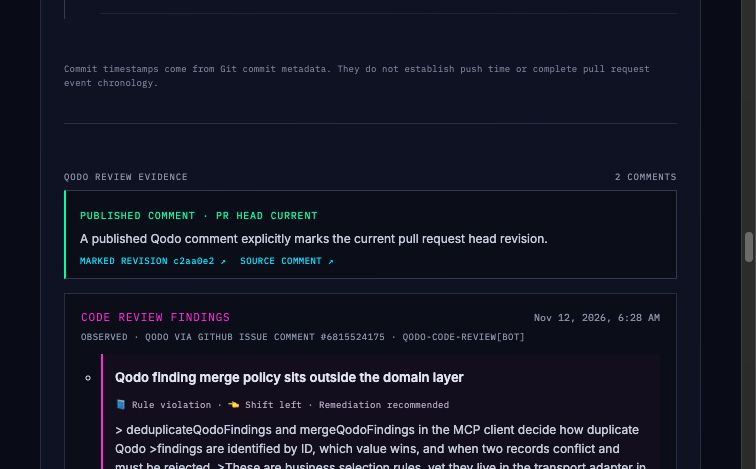
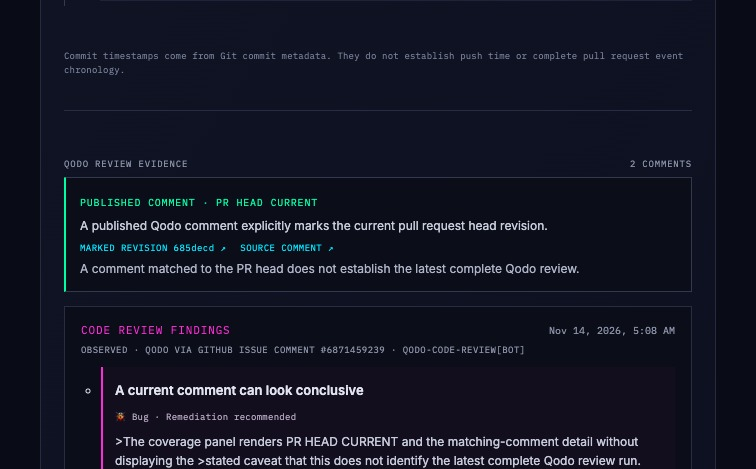
fix: qualify Qodo head coverage evidence

diff --git a/frontend/src/presentation/style.css b/frontend/src/presentation/style.css
@@ -8,7 +8,7 @@
 main:focus{outline:none}
 
 .review-provenance{margin:7px 0 12px;color:#8a91a7;font:9px 'IBM Plex Mono';letter-spacing:.05em;text-transform:uppercase}.finding-list{display:grid;gap:12px}.finding-list>li{padding:12px;border-left:2px solid #ff2bd6;background:#ff2bd607}.finding-heading{display:flex;justify-content:space-between;gap:12px;align-items:flex-start}.finding-heading strong{font-size:13px;font-weight:600}.finding-heading span{flex:none;color:#ffc857;font:10px 'IBM Plex Mono';text-transform:uppercase}.finding-labels{margin:8px 0;color:#b3a5be;font:9px 'IBM Plex Mono';letter-spacing:.03em}.finding-description{margin:8px 0 10px;color:#c6cbdb;font-size:12px;line-height:1.6}.review-followups{margin:16px 0 12px;padding:12px;border:1px dashed #3a3f5a;background:#ffffff03}.review-followups h4{margin:0 0 8px;color:#ffc857;font:9px 'IBM Plex Mono';letter-spacing:.07em}.review-followups ul{list-style:none;margin:0;padding:0;display:grid;gap:6px}.review-followups li{display:flex;align-items:center;justify-content:space-between;gap:10px;color:#bfc5d6;font-size:11px}.review-followups li a{color:var(--cyan);font:10px 'IBM Plex Mono';text-decoration:none}.review-followups li button{padding:6px 8px;background:transparent;color:var(--cyan);border:1px solid #00e5ff55;clip-path:none;font:9px 'IBM Plex Mono';letter-spacing:.05em}.review-followups>p{margin:10px 0 0;color:#8a91a7;font:9px/1.5 'IBM Plex Mono'}
-.review-coverage{margin:0 0 14px;padding:12px 14px;border:1px solid #33384f;border-left:2px solid #8a91a7;background:#0b0d19}.review-coverage>strong{font:10px 'IBM Plex Mono';letter-spacing:.08em;color:#d1d5e3}.review-coverage>p{margin:7px 0 0;color:#c6cbdb;font-size:12px;line-height:1.55}.review-coverage.current{border-left-color:#00ffa3}.review-coverage.current>strong{color:#00ffa3}.review-coverage.stale,.review-coverage.unknown{border-left-color:#fcee0a}.review-coverage.stale>strong,.review-coverage.unknown>strong{color:#fcee0a}.review-coverage.missing{border-left-color:#ff2bd6}.review-coverage.missing>strong{color:#ff7be3}.review-coverage.unavailable{border-left-color:#8a91a7}.review-coverage-sources{display:flex;flex-wrap:wrap;gap:14px}.review-coverage-sources a{color:var(--cyan);font:9px 'IBM Plex Mono';letter-spacing:.05em;text-decoration:none}.review-coverage-sources a:hover{text-decoration:underline}.review-coverage .review-coverage-next{color:#f4df73}
+.review-coverage{margin:0 0 14px;padding:12px 14px;border:1px solid #33384f;border-left:2px solid #8a91a7;background:#0b0d19}.review-coverage>strong{font:10px 'IBM Plex Mono';letter-spacing:.08em;color:#d1d5e3}.review-coverage>p{margin:7px 0 0;color:#c6cbdb;font-size:12px;line-height:1.55}.review-coverage.current{border-left-color:#00ffa3}.review-coverage.current>strong{color:#00ffa3}.review-coverage.stale,.review-coverage.unknown{border-left-color:#fcee0a}.review-coverage.stale>strong,.review-coverage.unknown>strong{color:#fcee0a}.review-coverage.outside_history{border-left-color:#8a91a7}.review-coverage.outside_history>strong,.review-coverage .review-coverage-caveat{color:#aeb4c7}.review-coverage.missing{border-left-color:#ff2bd6}.review-coverage.missing>strong{color:#ff7be3}.review-coverage.unavailable{border-left-color:#8a91a7}.review-coverage-sources{display:flex;flex-wrap:wrap;gap:14px}.review-coverage-sources a{color:var(--cyan);font:9px 'IBM Plex Mono';letter-spacing:.05em;text-decoration:none}.review-coverage-sources a:hover{text-decoration:underline}.review-coverage .review-coverage-next{color:#f4df73}
 
 .trace-open,.trace-copy,.trace-close{clip-path:none;font:10px 'IBM Plex Mono';letter-spacing:.06em;padding:8px 10px}.trace-open,.trace-close{margin-top:12px;background:transparent;color:var(--cyan);border:1px solid #00e5ff55}.trace-open:hover,.trace-close:hover{background:#00e5ff12}.trace-close{margin:0;flex:none}.deep-trace{margin-top:18px;padding:18px;border:1px solid #59405f;background:linear-gradient(130deg,#171222,#0d1020)}.trace-heading{display:flex;justify-content:space-between;align-items:flex-start;gap:16px}.trace-heading .eyebrow{font-size:10px;margin-bottom:7px}.trace-heading h4{margin:0;font:600 20px 'Barlow Condensed',sans-serif}.intervention-summary{margin-top:16px;padding:14px;border-left:2px solid var(--cyan);background:#00e5ff08}.intervention-summary h5,.trace-events-title{margin:0 0 9px;color:var(--cyan);font:10px 'IBM Plex Mono';letter-spacing:.08em}.intervention-summary p{margin:7px 0;color:#c6cbdb;font-size:12px;line-height:1.6}.intervention-summary p strong{color:#f3f4fa}.trace-actions{display:flex;flex-wrap:wrap;align-items:center;gap:10px;margin-top:12px}.trace-copy{background:var(--cyan);color:#071018}.trace-actions span{color:#aeb4c9;font-size:11px}.trace-events-title{margin:20px 0 9px}.trace-events{display:grid;gap:9px;margin:0;padding:0;list-style:none}.trace-events>li{padding:13px;border:1px solid #292d44;background:#0a0d19}.trace-event-meta{display:flex;flex-wrap:wrap;justify-content:space-between;gap:10px;color:#aeb4c9;font:10px 'IBM Plex Mono';letter-spacing:.04em}.trace-event-meta time{color:var(--muted)}.trace-events .finding-labels{line-height:1.6}.trace-events .finding-description{margin:8px 0;color:#c6cbdb}.trace-links{display:flex;align-items:center;flex-wrap:wrap;gap:12px;margin-top:10px}.trace-links .focus-revision{margin:0}.trace-events a{overflow-wrap:anywhere}.trace-boundary{margin:10px 0 0;color:#aeb4c9;font-size:11px;line-height:1.6}.deep-trace .footnote{margin-top:13px}button:focus-visible{outline:2px solid white;outline-offset:3px}
 

diff --git a/frontend/src/domain/reviews.test.ts b/frontend/src/domain/reviews.test.ts
@@ -2,6 +2,8 @@ import { describe, expect, it } from 'vitest'
 import { QodoReviewSetSchema, findRecurringFindings, laterRevisionsToInspect, noOpenFindingsNote, qodoHeadCoverage, qodoReviewState, reviewCountSummary, reviewsForRevision } from './reviews'
 
 const sha = 'a'.repeat(40)
+const oldSha = 'b'.repeat(40)
+const importedRevisions = [{ sha }, { sha: oldSha }]
 
 describe('Qodo review evidence', () => {
   it('reports current-head coverage only when a published comment marks the PR head', () => {
@@ -11,7 +13,7 @@ describe('Qodo review evidence', () => {
       items: [{ id: 17, provider: 'Qodo', sourceType: 'github_issue_comment', sourceAuthor: 'qodo-code-review[bot]', kind: 'findings', findings: [], commitSha: sha, commitUrl: `https://github.com/acme/app/commit/${sha}`, createdAt: '2026-11-04T09:00:00Z', url: 'https://github.com/acme/app/pull/7#issuecomment-17' }],
     })
 
-    expect(qodoHeadCoverage(reviews, sha)).toEqual({
+    expect(qodoHeadCoverage(reviews, sha, importedRevisions)).toEqual({
       state: 'current',
       detail: 'A published Qodo comment explicitly marks the current pull request head revision.',
       revisionSha: sha,
@@ -27,24 +29,41 @@ describe('Qodo review evidence', () => {
       items: [{ id: 17, provider: 'Qodo', sourceType: 'github_issue_comment', sourceAuthor: 'qodo-code-review[bot]', kind: 'findings', findings: [], commitSha: 'b'.repeat(40), commitUrl: `https://github.com/acme/app/commit/${'b'.repeat(40)}`, createdAt: '2026-11-04T09:00:00Z', url: 'https://github.com/acme/app/pull/7#issuecomment-17' }],
     })
 
-    expect(qodoHeadCoverage(reviews, sha)).toMatchObject({ state: 'stale', revisionSha: 'b'.repeat(40) })
+    expect(qodoHeadCoverage(reviews, sha, importedRevisions)).toMatchObject({ state: 'stale', revisionSha: oldSha })
+  })
+
+  it('does not call a marker outside the imported PR history an earlier PR revision', () => {
+    const outsideSha = 'c'.repeat(40)
+    const reviews = QodoReviewSetSchema.parse({
+      availability: 'available',
+      unrecognizedCommentCount: 0,
+      items: [{ id: 18, provider: 'Qodo', sourceType: 'github_issue_comment', sourceAuthor: 'qodo-code-review[bot]', kind: 'findings', findings: [], commitSha: outsideSha, commitUrl: `https://github.com/acme/app/commit/${outsideSha}`, createdAt: '2026-11-04T10:00:00Z', url: 'https://github.com/acme/app/pull/7#issuecomment-18' }],
+    })
+
+    expect(qodoHeadCoverage(reviews, sha, importedRevisions)).toMatchObject({
+      state: 'outside_history',
+      detail: 'A published Qodo comment marks a revision outside the imported pull request history; Ghostline cannot determine how it relates to this change.',
+      revisionSha: outsideSha,
+      revisionUrl: `https://github.com/acme/app/commit/${outsideSha}`,
+      sourceUrl: 'https://github.com/acme/app/pull/7#issuecomment-18',
+    })
   })
 
   it('reports unknown coverage when revision markers are missing or comment parsing is partial', () => {
     const unmarked = QodoReviewSetSchema.parse({ availability: 'available', unrecognizedCommentCount: 0, items: [{ id: 17, provider: 'Qodo', sourceType: 'github_issue_comment', sourceAuthor: 'qodo-code-review[bot]', kind: 'findings', findings: [], createdAt: '2026-11-04T09:00:00Z', url: 'https://github.com/acme/app/pull/7#issuecomment-17' }] })
     const partial = QodoReviewSetSchema.parse({ availability: 'available', unrecognizedCommentCount: 1, items: [{ id: 17, provider: 'Qodo', sourceType: 'github_issue_comment', sourceAuthor: 'qodo-code-review[bot]', kind: 'findings', findings: [], commitSha: 'b'.repeat(40), commitUrl: `https://github.com/acme/app/commit/${'b'.repeat(40)}`, createdAt: '2026-11-04T09:00:00Z', url: 'https://github.com/acme/app/pull/7#issuecomment-17' }] })
 
-    expect(qodoHeadCoverage(unmarked, sha).state).toBe('unknown')
-    expect(qodoHeadCoverage(partial, sha).state).toBe('unknown')
-    expect(qodoHeadCoverage(unmarked, undefined).state).toBe('unknown')
+    expect(qodoHeadCoverage(unmarked, sha, importedRevisions).state).toBe('unknown')
+    expect(qodoHeadCoverage(partial, sha, importedRevisions).state).toBe('unknown')
+    expect(qodoHeadCoverage(unmarked, undefined, importedRevisions).state).toBe('unknown')
   })
 
   it('distinguishes missing comments from unavailable Qodo evidence', () => {
     const missing = QodoReviewSetSchema.parse({ availability: 'available', unrecognizedCommentCount: 0, items: [] })
     const unavailable = QodoReviewSetSchema.parse({ availability: 'unavailable', reason: 'GitHub denied the request.', unrecognizedCommentCount: 0, items: [] })
 
-    expect(qodoHeadCoverage(missing, sha)).toMatchObject({ state: 'missing' })
-    expect(qodoHeadCoverage(unavailable, sha)).toMatchObject({ state: 'unavailable', detail: 'GitHub denied the request.' })
+    expect(qodoHeadCoverage(missing, sha, importedRevisions)).toMatchObject({ state: 'missing' })
+    expect(qodoHeadCoverage(unavailable, sha, importedRevisions)).toMatchObject({ state: 'unavailable', detail: 'GitHub denied the request.' })
   })
 
   it('accepts source-linked findings tied to the reviewed commit', () => {

diff --git a/frontend/src/presentation/QodoHeadCoverage.dom.test.ts b/frontend/src/presentation/QodoHeadCoverage.dom.test.ts
@@ -13,7 +13,10 @@ const oldSha = 'b'.repeat(40)
 const pullRequest: PullRequest = {
   repository: 'acme/app', owner: 'acme', repo: 'app', number: 7, title: 'Qodo review coverage', state: 'open',
   url: 'https://github.com/acme/app/pull/7', createdAt: '2026-11-04T08:00:00Z', updatedAt: '2026-11-04T11:00:00Z',
-  commits: [{ sha: headSha, shortSha: headSha.slice(0, 7), message: 'Current head', author: 'A', committedAt: '2026-11-04T10:00:00Z', url: `https://github.com/acme/app/commit/${headSha}` }],
+  commits: [
+    { sha: oldSha, shortSha: oldSha.slice(0, 7), message: 'Earlier revision', author: 'A', committedAt: '2026-11-04T09:00:00Z', url: `https://github.com/acme/app/commit/${oldSha}` },
+    { sha: headSha, shortSha: headSha.slice(0, 7), message: 'Current head', author: 'A', committedAt: '2026-11-04T10:00:00Z', url: `https://github.com/acme/app/commit/${headSha}` },
+  ],
   checks: { availability: 'available', revisionSha: headSha, revisionShortSha: headSha.slice(0, 7), revisionUrl: `https://github.com/acme/app/commit/${headSha}`, items: [] },
   qodoReviews: { availability: 'available', unrecognizedCommentCount: 0, items: [{ id: 17, provider: 'Qodo', sourceType: 'github_issue_comment', sourceAuthor: 'qodo-code-review[bot]', kind: 'findings', findings: [], commitSha: oldSha, commitUrl: `https://github.com/acme/app/commit/${oldSha}`, createdAt: '2026-11-04T09:00:00Z', url: 'https://github.com/acme/app/pull/7#issuecomment-17' }] },
 }
@@ -52,5 +55,31 @@ describe('Qodo PR-head coverage status', () => {
     expect(status.textContent).toContain('MARKED REVISION bbbbbbb')
     expect(status.querySelector('a[href="https://github.com/acme/app/pull/7#issuecomment-17"]')?.textContent).toContain('SOURCE COMMENT')
     expect(status.textContent).toContain('Inspect the current PR head in Qodo')
+    expect(status.textContent).toContain('does not establish the latest complete Qodo review')
+  })
+
+  it('labels a marked revision outside the imported PR history without calling it earlier', async () => {
+    const outsideSha = 'c'.repeat(40)
+    const outsidePullRequest = {
+      ...pullRequest,
+      qodoReviews: { availability: 'available' as const, unrecognizedCommentCount: 0, items: [{ id: 19, provider: 'Qodo' as const, sourceType: 'github_issue_comment' as const, sourceAuthor: 'qodo-code-review[bot]', kind: 'findings' as const, findings: [], commitSha: outsideSha, commitUrl: `https://github.com/acme/app/commit/${outsideSha}`, createdAt: '2026-11-04T10:30:00Z', url: 'https://github.com/acme/app/pull/7#issuecomment-19' }] },
+    }
+    vi.mocked(importPullRequest).mockResolvedValue(outsidePullRequest)
+    host = document.createElement('div')
+    document.body.append(host)
+    mounted = createApp(App)
+    mounted.mount(host)
+    const input = host.querySelector<HTMLInputElement>('#pr-url')!
+    input.value = pullRequest.url
+    input.dispatchEvent(new Event('input', { bubbles: true }))
+    await nextTick()
+    host.querySelector<HTMLButtonElement>('.input-row button')!.click()
+    await vi.waitFor(() => expect(host?.querySelector('.review-coverage')).not.toBeNull())
+
+    const status = host!.querySelector<HTMLElement>('.review-coverage')!
+    expect(status.classList.contains('outside_history')).toBe(true)
+    expect(status.textContent).toContain('MARKER OUTSIDE IMPORTED HISTORY')
+    expect(status.textContent).not.toContain('earlier revision')
+    expect(status.querySelector(`a[href="https://github.com/acme/app/commit/${outsideSha}"]`)?.textContent).toContain('MARKED REVISION')
   })
 })

diff --git a/frontend/src/presentation/App.vue b/frontend/src/presentation/App.vue
@@ -27,7 +27,7 @@ const activeChecks = computed(() => selectedRevision.value ? focusedChecks.value
 const orderedChecks = computed(() => orderChecks(activeChecks.value?.availability === 'available' ? activeChecks.value.items : []))
 const checksSummary = computed(() => summarizeChecks(orderedChecks.value))
 const recurringFindings = computed(() => findRecurringFindings(pr.value?.qodoReviews.items ?? []))
-const headCoverage = computed(() => pr.value ? qodoHeadCoverage(pr.value.qodoReviews, pr.value.checks.revisionSha || undefined) : undefined)
+const headCoverage = computed(() => pr.value ? qodoHeadCoverage(pr.value.qodoReviews, pr.value.checks.revisionSha || undefined, pr.value.commits) : undefined)
 const visibleCommits = computed(() => pr.value?.commits.filter((commit) => !selectedRevision.value || commit.sha === selectedRevision.value) ?? [])
 const selectedReviews = computed(() => reviewsForRevision(pr.value?.qodoReviews.items ?? [], selectedRevision.value || undefined))
 const reviewCount = computed(() => reviewCountSummary(pr.value?.qodoReviews.items ?? [], selectedRevision.value || undefined))
@@ -144,12 +144,14 @@ function date(value: string) { return new Intl.DateTimeFormat(undefined, { dateS
       <section class="qodo-reviews" aria-labelledby="qodo-reviews-title">
         <h3 id="qodo-reviews-title" class="section-title"><span>QODO REVIEW EVIDENCE <span v-if="selectedRevision">· MATCHED REVISION</span></span><span v-if="pr.qodoReviews.availability === 'available'">{{ reviewCount }}</span></h3>
         <div v-if="headCoverage" class="review-coverage" :class="headCoverage.state" role="status" aria-live="polite">
-          <strong>PUBLISHED COMMENT · PR HEAD {{ headCoverage.state.toUpperCase() }}</strong>
+          <strong v-if="headCoverage.state === 'outside_history'">PUBLISHED COMMENT · MARKER OUTSIDE IMPORTED HISTORY</strong>
+          <strong v-else>PUBLISHED COMMENT · PR HEAD {{ headCoverage.state.toUpperCase() }}</strong>
           <p>{{ headCoverage.detail }}</p>
-          <p v-if="headCoverage.state === 'current' || headCoverage.state === 'stale'" class="review-coverage-sources">
+          <p v-if="headCoverage.state === 'current' || headCoverage.state === 'stale' || headCoverage.state === 'outside_history'" class="review-coverage-sources">
             <a v-if="headCoverage.revisionUrl" :href="headCoverage.revisionUrl" target="_blank" rel="noreferrer">MARKED REVISION {{ headCoverage.revisionSha.slice(0, 7) }} ↗</a>
             <a :href="headCoverage.sourceUrl" target="_blank" rel="noreferrer">SOURCE COMMENT ↗</a>
           </p>
+          <p class="review-coverage-caveat">A comment matched to the PR head does not establish the latest complete Qodo review.</p>
           <p v-if="headCoverage.state === 'stale'" class="review-coverage-next">Inspect the current PR head in Qodo before treating these comments as feedback on the version you intend to ship.</p>
           <p v-else-if="headCoverage.state === 'unknown'" class="review-coverage-next">Open the source comments and confirm which revision Qodo reviewed.</p>
         </div>

diff --git a/frontend/src/domain/reviews.ts b/frontend/src/domain/reviews.ts
@@ -36,12 +36,12 @@ export type QodoFinding = QodoReview['findings'][number]
 export type RevisionRef = { sha: string; shortSha: string; message: string; author: string; committedAt: string; url: string }
 
 export type QodoHeadCoverage =
-  | { state: 'current' | 'stale'; detail: string; revisionSha: string; revisionUrl?: string; sourceUrl: string }
+  | { state: 'current' | 'stale' | 'outside_history'; detail: string; revisionSha: string; revisionUrl?: string; sourceUrl: string }
   | { state: 'unknown' | 'missing' | 'unavailable'; detail: string }
 
 // This describes whether published comments contain an explicit marker for
 // the supplied PR head. It does not establish the latest complete review run.
-export function qodoHeadCoverage(reviews: QodoReviewSet, headSha?: string): QodoHeadCoverage {
+export function qodoHeadCoverage(reviews: QodoReviewSet, headSha?: string, prCommits: Pick<RevisionRef, 'sha'>[] = []): QodoHeadCoverage {
   if (reviews.availability === 'unavailable') return { state: 'unavailable', detail: reviews.reason }
   if (!headSha) return { state: 'unknown', detail: 'GitHub did not identify the current PR head revision, so Qodo comment coverage cannot be compared.' }
   if (reviews.items.length === 0) {
@@ -68,9 +68,12 @@ export function qodoHeadCoverage(reviews: QodoReviewSet, headSha?: string): Qodo
 
   const newestMarked = newestFirst.find((review) => review.commitSha)
   if (newestMarked?.commitSha) {
+    const markerIsInPullRequest = prCommits.some((commit) => commit.sha.toLowerCase() === newestMarked.commitSha?.toLowerCase())
     return {
-      state: 'stale',
-      detail: 'Recognized Qodo comments mark earlier revisions only; none marks the current pull request head.',
+      state: markerIsInPullRequest ? 'stale' : 'outside_history',
+      detail: markerIsInPullRequest
+        ? 'Recognized Qodo comments mark earlier revisions in the imported pull request history only; none marks the current pull request head.'
+        : 'A published Qodo comment marks a revision outside the imported pull request history; Ghostline cannot determine how it relates to this change.',
       revisionSha: newestMarked.commitSha,
       ...(newestMarked.commitUrl ? { revisionUrl: newestMarked.commitUrl } : {}),
       sourceUrl: newestMarked.url,
